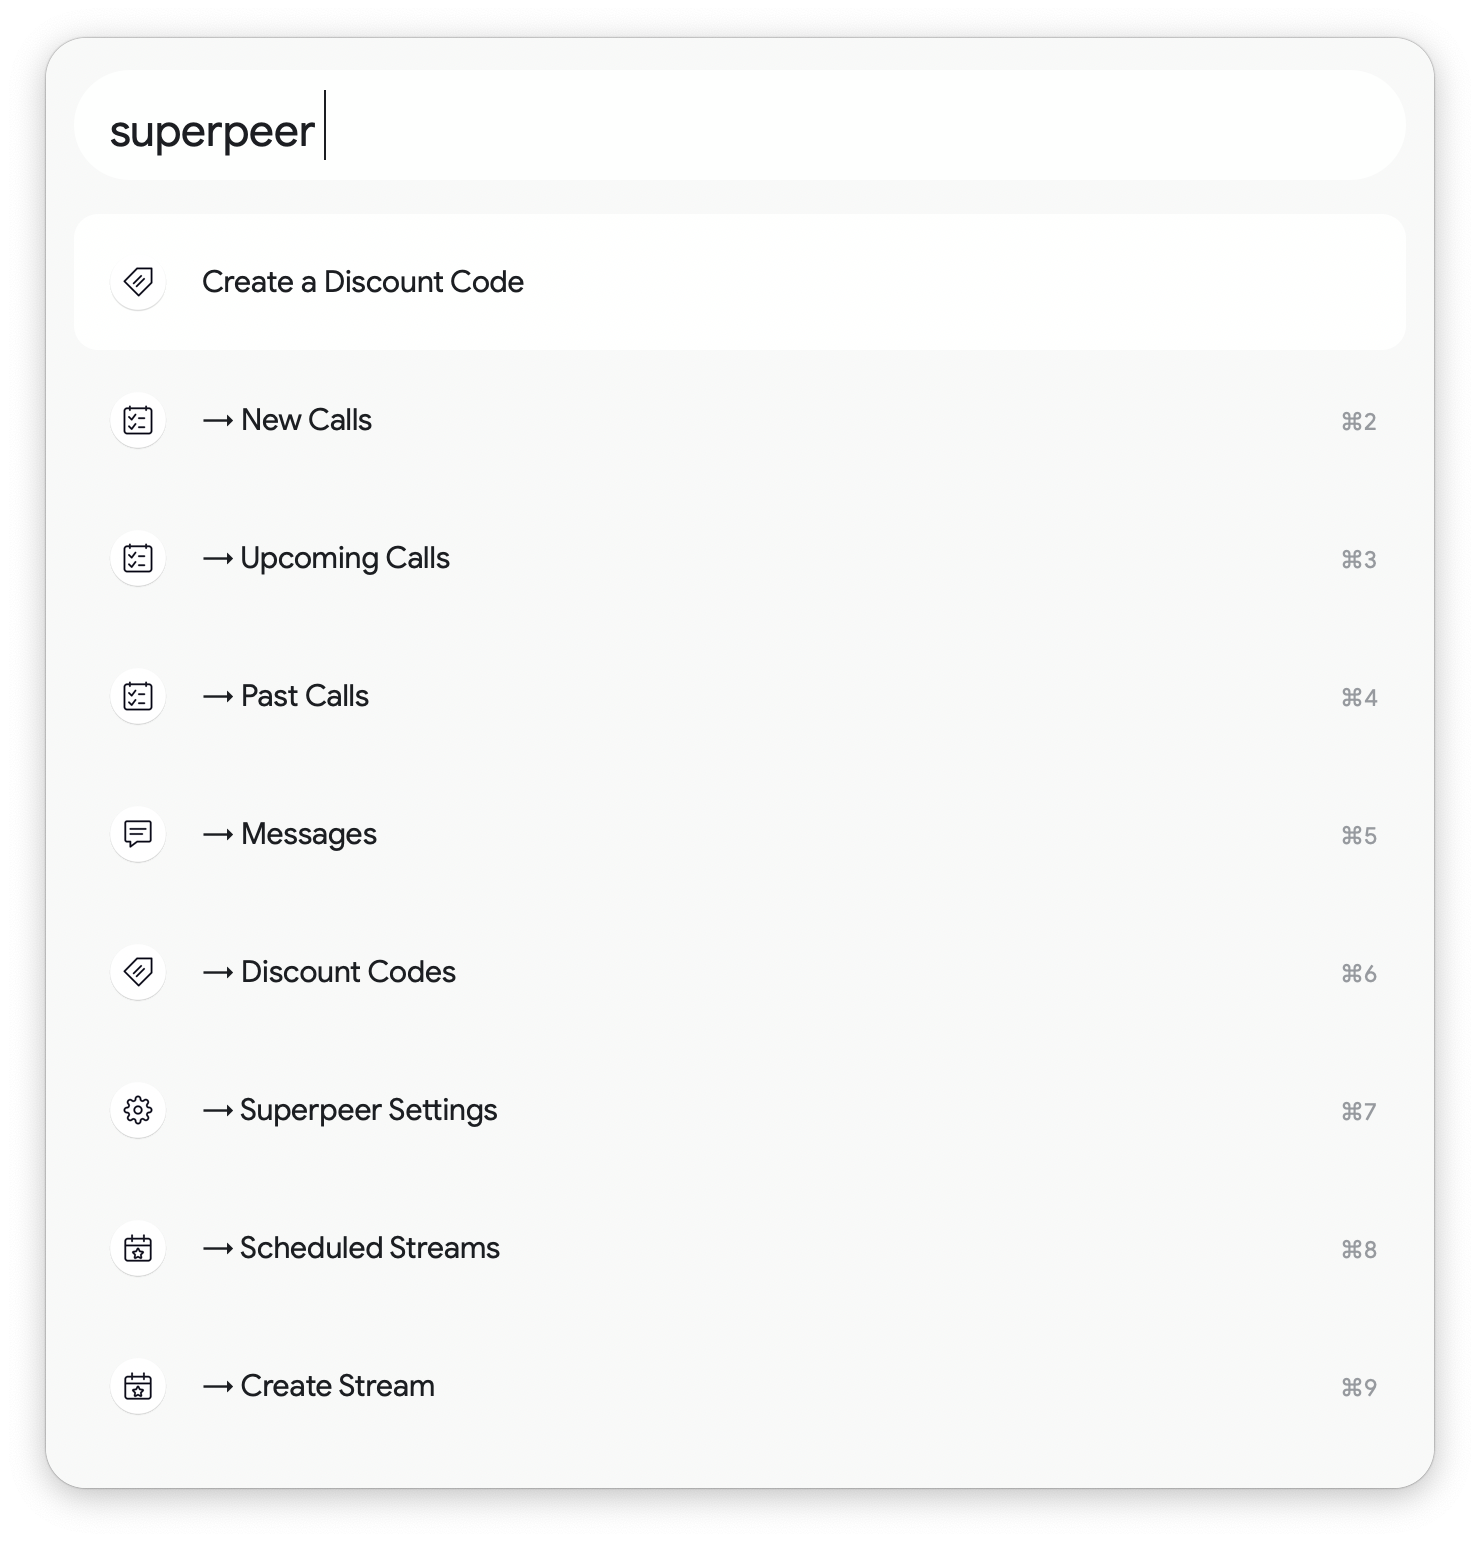
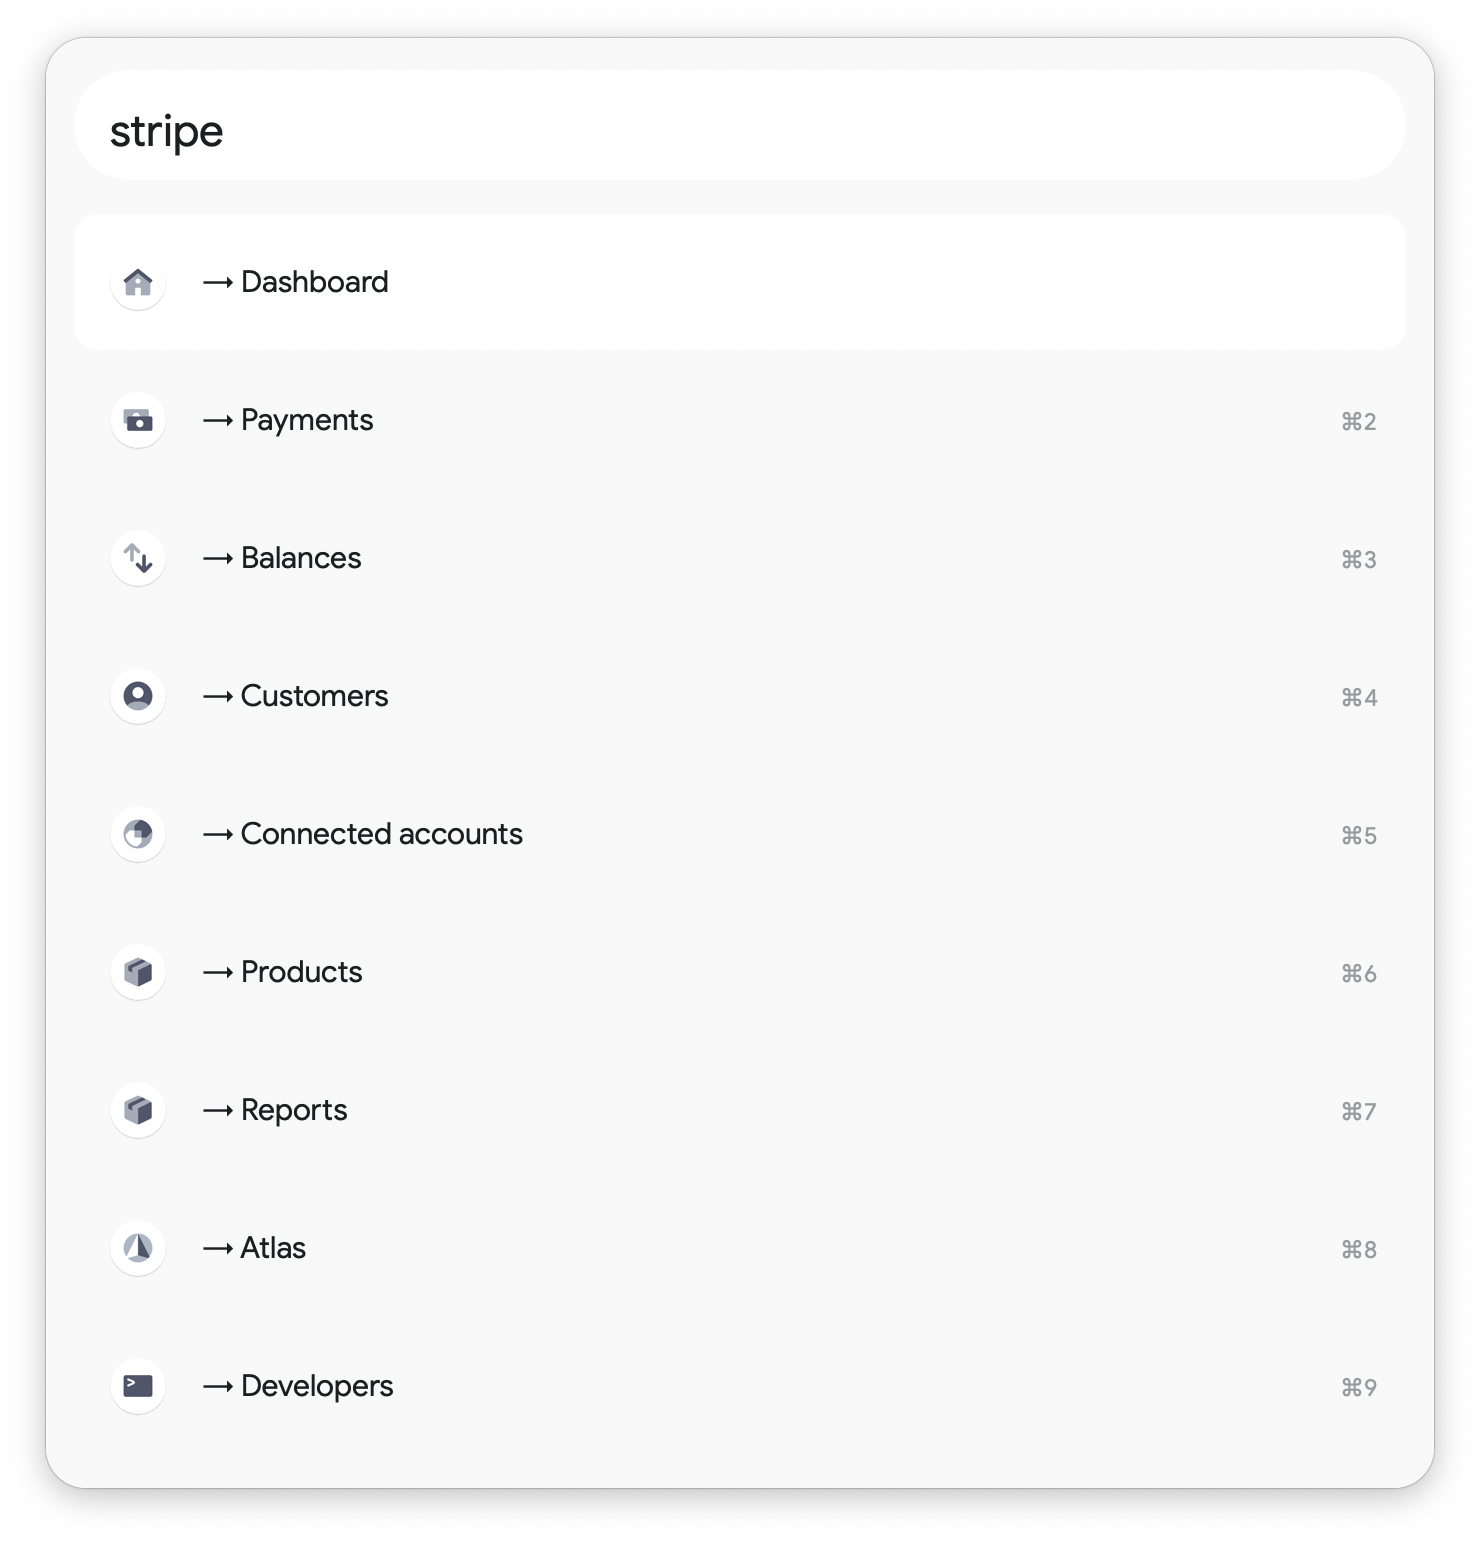
Initial release.

diff --git a/README.md b/README.md
@@ -1,49 +1,36 @@
 # Alfred Toolkit for Stripe
 
-<img src="./assets/icon-superpeer.png" alt="Superpeer logo" width="128" height="128">
+<img src="./assets/icon-stripe.png" alt="Stripe logo" width="128" height="128">
 
-The Superpeer Toolkit for Alfred makes it easy to quickly access Superpeer's web features, including calls, discount codes, and more, using the `superpeer` keyword.
+The Stripe Toolkit for Alfred makes it easy to quickly access Stripe's dashboard features, including payments, invoices, and customers, and more with the `stripe` keyword.
 
-You will need to have a Superpeer account to benefit from this workflow, since nearly all shortcuts require authentication.
+You can also create new payments, subscriptions, and products with the `new` keyword.
 
-<img src="./assets/preview.png" alt="Preview of Superpeer Toolkit">
+You will need to be signed in to your Stripe account in your default web browser to benefit from this workflow.
 
-This workflow doesn't support programmatic access to Superpeer.
+<img src="./assets/preview.png" alt="Preview of Stripe Toolkit">
+
+This workflow doesn't support programmatic access to Stripe.
 
 
 # Installation
 
-<a href="https://github.com/chrismessina/alfred-superpeer-toolkit/releases/latest"><img src="./assets/icon-workflow.png" alt="Workflow File Icon" width="128" height="128"></a>
+<a href="https://github.com/chrismessina/alfred-stripe-toolkit/releases/latest"><img src="./assets/icon-workflow.png" alt="Workflow File Icon" width="128" height="128"></a>
 
-1. Download the [latest release here](https://github.com/chrismessina/alfred-superpeer-toolkit/releases/latest).
+1. Download the [latest release here](https://github.com/chrismessina/alfred-stripe-toolkit/releases/latest).
 2. Double-click the `.alfredworkflow` to install it.
 
 _You will need to purchase the [Alfred Powerpack](https://www.alfredapp.com/powerpack/) to enable this workflow._
 
 
-# Configuration
-
-Once the workflow is installed, launch **Alfred Preferences**, choose **Workflows** and then select **Superpeer Toolkit**.
-
-<span style="color:red;">➊</span> Access the **Workflow Environment Variables** in the top right of the window:
-
-<img src="./assets/workflow-config.png" alt="How to access the Alfred Workflow Environment Variables">
-
-
-## Set your username
-
-This workflow makes it easy to access your own Superpeer profile.
-
-<span style="color:red;">➋</span> To configure this feature, you must set the `account` variable in the configuration to *your own username*.
-
 # Changelog[¹](https://keepachangelog.com/)
 
-## [v0.1.0] - 2021-01-10
+## [v0.1.0] - 2021-04-05
 - Initial Release
 
 
 # About
 
-This workflow is unaffiliated with nor endorsed by Superpeer, Inc.
+This workflow is unaffiliated with nor endorsed by Stripe, Inc.
 
-You can [file bugs](https://github.com/chrismessina/alfred-superpeer-toolkit/issues/new) or [submit feature requests](https://github.com/chrismessina/alfred-superpeer-toolkit/issues/new) on GitHub using the label `workflow:superpeer-toolkit`.
+You can [file bugs](https://github.com/chrismessina/alfred-stripe-toolkit/issues/new) or [submit feature requests](https://github.com/chrismessina/alfred-stripe-toolkit/issues/new) on GitHub using the label `workflow:stripe-toolkit`.
